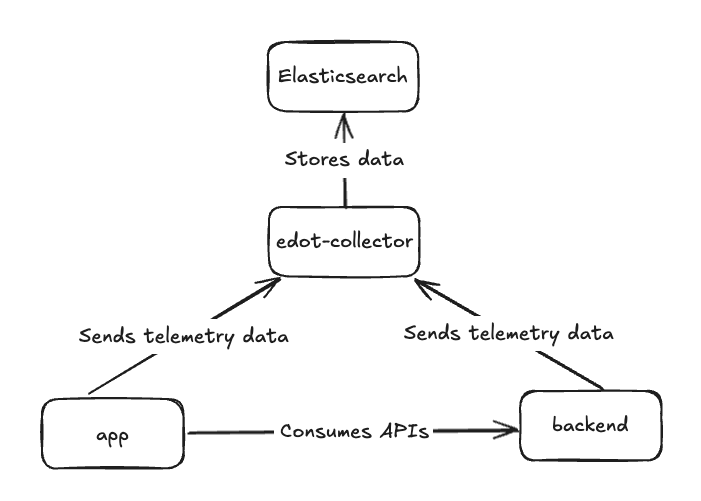
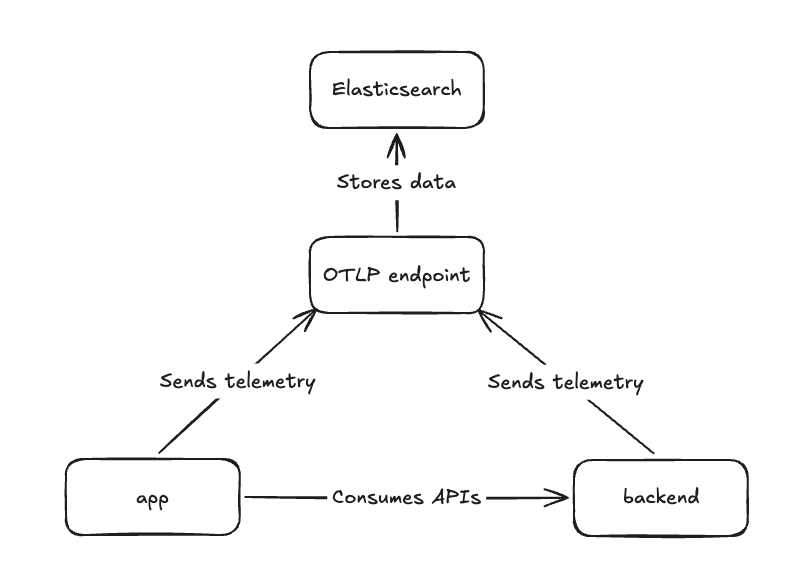
Reaming the EDOT Collector (#130)

Changed region(s): [[0.0599, 0.0599, 0.9586, 0.9581]]

diff --git a/README.md b/README.md
@@ -18,10 +18,10 @@ By running it, you can explore how EDOT Android captures and correlates telemetr
 - [Components](#components)
   * [Backend service](#backend-service)
   * [Android application](#android-application)
-  * [EDOT Collector](#edot-collector)
+  * [Elastic Agent](#elastic-agent)
 - [How to run](#how-to-run)
   * [Prerequisites](#prerequisites)
-  * [Step 1: Setting up Elasticsearch, Kibana and the EDOT Collector](#step-1-setting-up-elasticsearch-kibana-and-the-edot-collector)
+  * [Step 1: Setting up Elasticsearch, Kibana, and the Elastic Agent](#step-1-setting-up-elasticsearch-kibana-and-the-elastic-agent)
   * [Step 2: Launching the backend service](#step-2-launching-the-backend-service)
   * [Step 3: Launch the Android application](#step-3-launch-the-android-application)
 - [Analyzing the data](#analyzing-the-data)
@@ -46,13 +46,13 @@ head to the second screen. This is to demonstrate how network and backend errors
 correlated. The floating action button intentionally crashes the app so you can also inspect Android
 crash reporting in Kibana.
 
-### EDOT Collector
+### Elastic Agent
 
-The [EDOT Collector](https://www.elastic.co/docs/reference/opentelemetry/edot-collector/) (Elastic
-Distribution of the OpenTelemetry Collector) receives telemetry data from both the Android
-application and the backend service and forwards it to Elasticsearch for storage and analysis. In
-this demo, it is set up automatically as part of [Step 1](#step-1-setting-up-elasticsearch-kibana-and-the-edot-collector)
-via start-local.
+The [Elastic Agent](https://www.elastic.co/docs/reference/fleet/elastic-agent-as-otel-collector)
+provides the OTLP endpoint that receives telemetry from the Android application and backend service,
+then forwards it to Elasticsearch for storage and analysis. In this demo, it is set up automatically
+as part of [Step 1](#step-1-setting-up-elasticsearch-kibana-and-the-elastic-agent) via
+start-local.
 
 ## How to run
 
@@ -72,19 +72,20 @@ via start-local.
 > If you wanted to use a real device, you'd need to replace the `10.0.2.2` host by the one of the
 > machine where you'll start the services mentioned in the steps below.
 
-### Step 1: Setting up Elasticsearch, Kibana and the EDOT Collector
+### Step 1: Setting up Elasticsearch, Kibana, and the Elastic Agent
 
 We use [start-local](https://github.com/elastic/start-local/) to spin up Elasticsearch, Kibana and
-the EDOT Collector locally with a single command. Run the following:
+the Elastic Agent locally with a single command. In this setup, the Elastic Agent provides the OTLP
+endpoint that receives telemetry from the Android application and backend service. Run the following:
 
 ```shell
 curl -fsSL https://elastic.co/start-local | sh -s -- --edot
 ```
 
 This creates an `elastic-start-local` folder and starts all three services. Once it finishes, the
-EDOT Collector endpoint will be `http://localhost:4318`.
+OTLP endpoint is available at `http://localhost:4318`.
 
-You don't need to configure the EDOT Collector endpoint for this demo application, as it has already
+You don't need to configure the OTLP endpoint for this demo application, as it has already
 been set [here](app/src/main/java/co/elastic/otel/android/demo/MyApp.kt).
 
 You can stop and start the services later with the scripts in the `elastic-start-local` folder:
@@ -101,7 +102,7 @@ the [start-local documentation](https://github.com/elastic/start-local/).
 ### Step 2: Launching the backend service
 
 We're going to use the `backend-manager` script, which will build the backend, package it in a
-Docker image and run it connected to the same network as the EDOT Collector.
+Docker image and run it connected to the same network as the Elastic Agent.
 
 Once the backend service is running, its endpoint will be `http://localhost:8080/v1/`.
 
